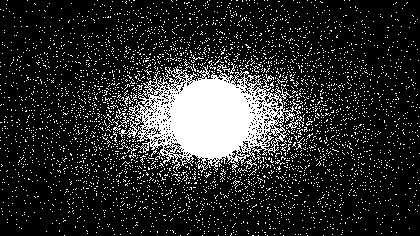
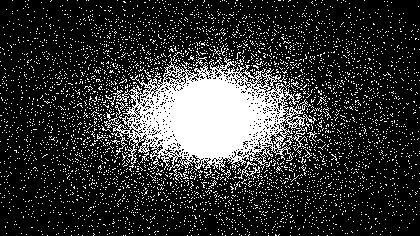
.

diff --git a/renderer.html b/renderer.html
@@ -30,9 +30,9 @@
         void main()	{
             highp uvec4 bitParts = texture(dstMap1, gl_FragCoord.xy / iResolution);
             ivec2 coords = ivec2(int(bitParts.r | (bitParts.g << 8)), int(bitParts.z));
-            gl_FragColor = texelFetch(intermediate, coords, 0);// * float(bitParts.a)/255.0;
+            gl_FragColor = texelFetch(intermediate, coords, 0) * float(bitParts.a)/255.0;
             
-            /*bitParts = texture(dstMap2, gl_FragCoord.xy / iResolution);
+            bitParts = texture(dstMap2, gl_FragCoord.xy / iResolution);
             coords = ivec2(int(bitParts.r | (bitParts.g << 8)), int(bitParts.z));
             gl_FragColor += texelFetch(intermediate, coords, 0) * float(bitParts.a)/255.0;
 
@@ -43,7 +43,7 @@
             bitParts = texture(dstMap4, gl_FragCoord.xy / iResolution);
             coords = ivec2(int(bitParts.r | (bitParts.g << 8)), int(bitParts.z));
             gl_FragColor += texelFetch(intermediate, coords, 0) * float(bitParts.a)/255.0;
-            //gl_FragColor = texture(intermediate, gl_FragCoord.xy / iResolution);*/
+            //gl_FragColor = texture(intermediate, gl_FragCoord.xy / iResolution);
         }
     </script>
     <script id="vertexShader" type="x-shader/x-vertex">
@@ -717,7 +717,7 @@
             rtUniforms.time.value = elapsedSeconds;
             rtUniforms.iFrame.value += rtUniforms.iFrame.value;
 
-            //renderer.setRenderTarget(renderTarget);
+            renderer.setRenderTarget(renderTarget);
             renderer.setClearColor( 0xffffff, 1);
             renderer.clear(true, true, true);
             gl.enable(gl.STENCIL_TEST);
@@ -739,9 +739,9 @@
             gl.stencilMask(0xFF);
             gl.disable(gl.STENCIL_TEST);
             //renderer.render(stScene, camera);
-            //renderer.setRenderTarget(null);
+            renderer.setRenderTarget(null);
 
-            //renderer.render( scene, camera );
+            renderer.render( scene, camera );
             //renderer.render( rtScene, camera );
 
             var now = new Date().getTime();

diff --git a/create_pattern.py b/create_pattern.py
@@ -41,7 +41,7 @@ def draw_from_gaussian_distribution_without_repeats(rng, mean, variance, already
     return coords.astype(float)
 
 center = np.array([IN_IMAGE_WIDTH / 2, IN_IMAGE_HEIGHT / 2])
-pixel_budget = IN_IMAGE_WIDTH * IN_IMAGE_HEIGHT / 6
+pixel_budget = IN_IMAGE_WIDTH * IN_IMAGE_HEIGHT / 5
 
 vals = []
 already_filled = np.zeros((IN_IMAGE_WIDTH, IN_IMAGE_HEIGHT))
